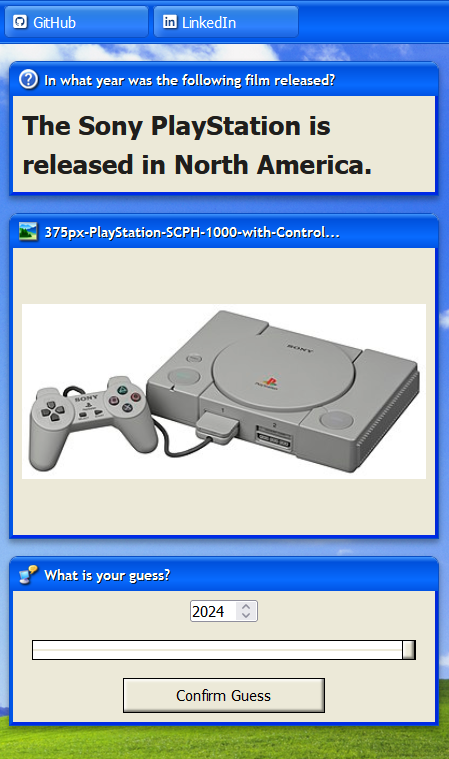
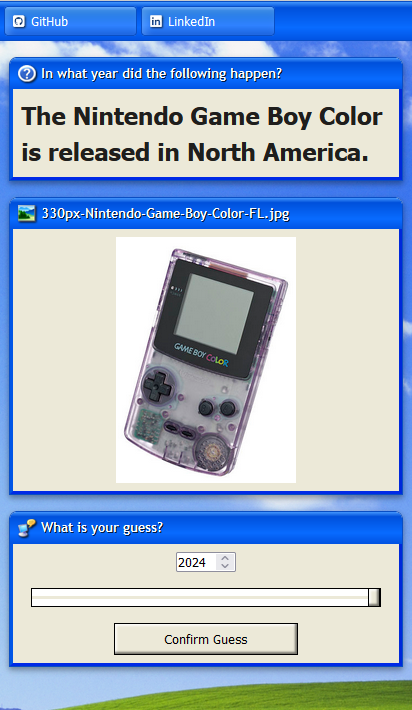
Fixed a typo.

diff --git a/src/App.jsx b/src/App.jsx
@@ -63,7 +63,7 @@ function App() {
       </div>
       <XPCard
         icon="./question_icon.png"
-        title="In what year was the following film released?"
+        title="In what year did the following happen?"
         bodyText={question.text}
       />
       <XPCard
